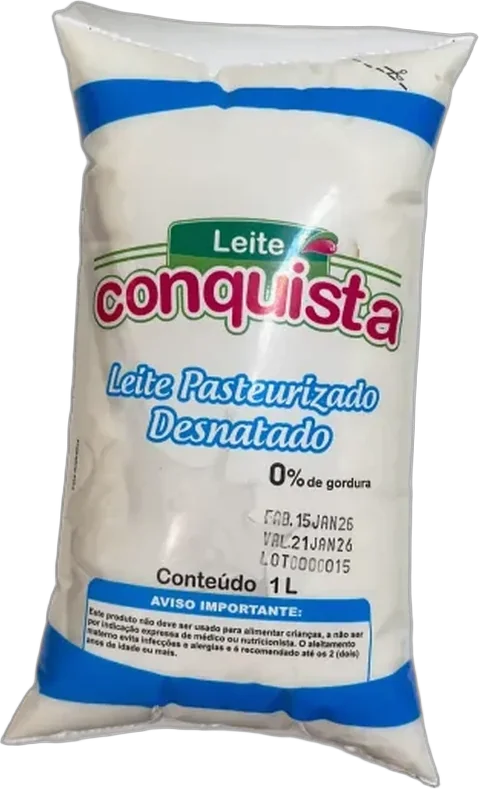
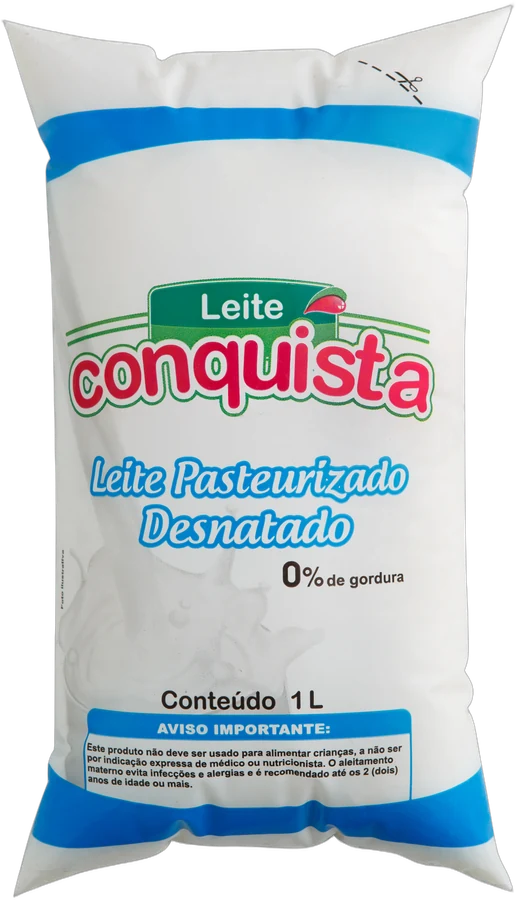
feat(catalogo): bebida láctea morango saco 900 g + fotos de estúdio dos leites
- Novo tamanho "900 g saco" na bebida láctea morango (foto AG024156).
- Leite integral e desnatado trocam os recortes antigos pelas fotos de
  estúdio (AG024158 / AG024153), recortadas com BiRefNet massive.

diff --git a/src/data/products.ts b/src/data/products.ts
@@ -136,11 +136,15 @@ export const products: Product[] = [
     category: "Bebida Láctea",
     tagline: "A queridinha da lancheira, com sabor de morango.",
     description:
-      "Bebida láctea fermentada com preparado de morango. Cremosa e gostosa, é só agitar antes de beber. Do garrafão da família ao squeeze de 110 g da lancheira.",
+      "Bebida láctea fermentada com preparado de morango. Cremosa e gostosa, é só agitar antes de beber. Do garrafão e do saquinho de 900 g da família ao squeeze de 110 g da lancheira.",
     image: img("bebida-morango-950"),
-    variants: sizes("bebida-morango", ["950", "450", "180", "110"]),
+    variants: [
+      ...sizes("bebida-morango", ["950"]),
+      { label: "900 g saco", image: img("bebida-morango-900") },
+      ...sizes("bebida-morango", ["450", "180", "110"]),
+    ],
     accent: "pink",
-    badges: ["Inspeção Federal", "950 g · 450 g · 180 g · 110 g", "Agite antes de beber"],
+    badges: ["Inspeção Federal", "950 g · 900 g saco · 450 g · 180 g · 110 g", "Agite antes de beber"],
     uses: ["Lancheira escolar", "Lanche da tarde", "Vitamina com banana"],
     servingSize: "200 g (1 copo)",
     nutrition: [

diff --git a/src/versao2/data/products.ts b/src/versao2/data/products.ts
@@ -136,11 +136,15 @@ export const products: Product[] = [
     category: "Bebida Láctea",
     tagline: "A queridinha da lancheira, com sabor de morango.",
     description:
-      "Bebida láctea fermentada com preparado de morango. Cremosa e gostosa, é só agitar antes de beber. Do garrafão da família ao squeeze de 110 g da lancheira.",
+      "Bebida láctea fermentada com preparado de morango. Cremosa e gostosa, é só agitar antes de beber. Do garrafão e do saquinho de 900 g da família ao squeeze de 110 g da lancheira.",
     image: img("bebida-morango-950"),
-    variants: sizes("bebida-morango", ["950", "450", "180", "110"]),
+    variants: [
+      ...sizes("bebida-morango", ["950"]),
+      { label: "900 g saco", image: img("bebida-morango-900") },
+      ...sizes("bebida-morango", ["450", "180", "110"]),
+    ],
     accent: "pink",
-    badges: ["Inspeção Federal", "950 g · 450 g · 180 g · 110 g", "Agite antes de beber"],
+    badges: ["Inspeção Federal", "950 g · 900 g saco · 450 g · 180 g · 110 g", "Agite antes de beber"],
     uses: ["Lancheira escolar", "Lanche da tarde", "Vitamina com banana"],
     servingSize: "200 g (1 copo)",
     nutrition: [
